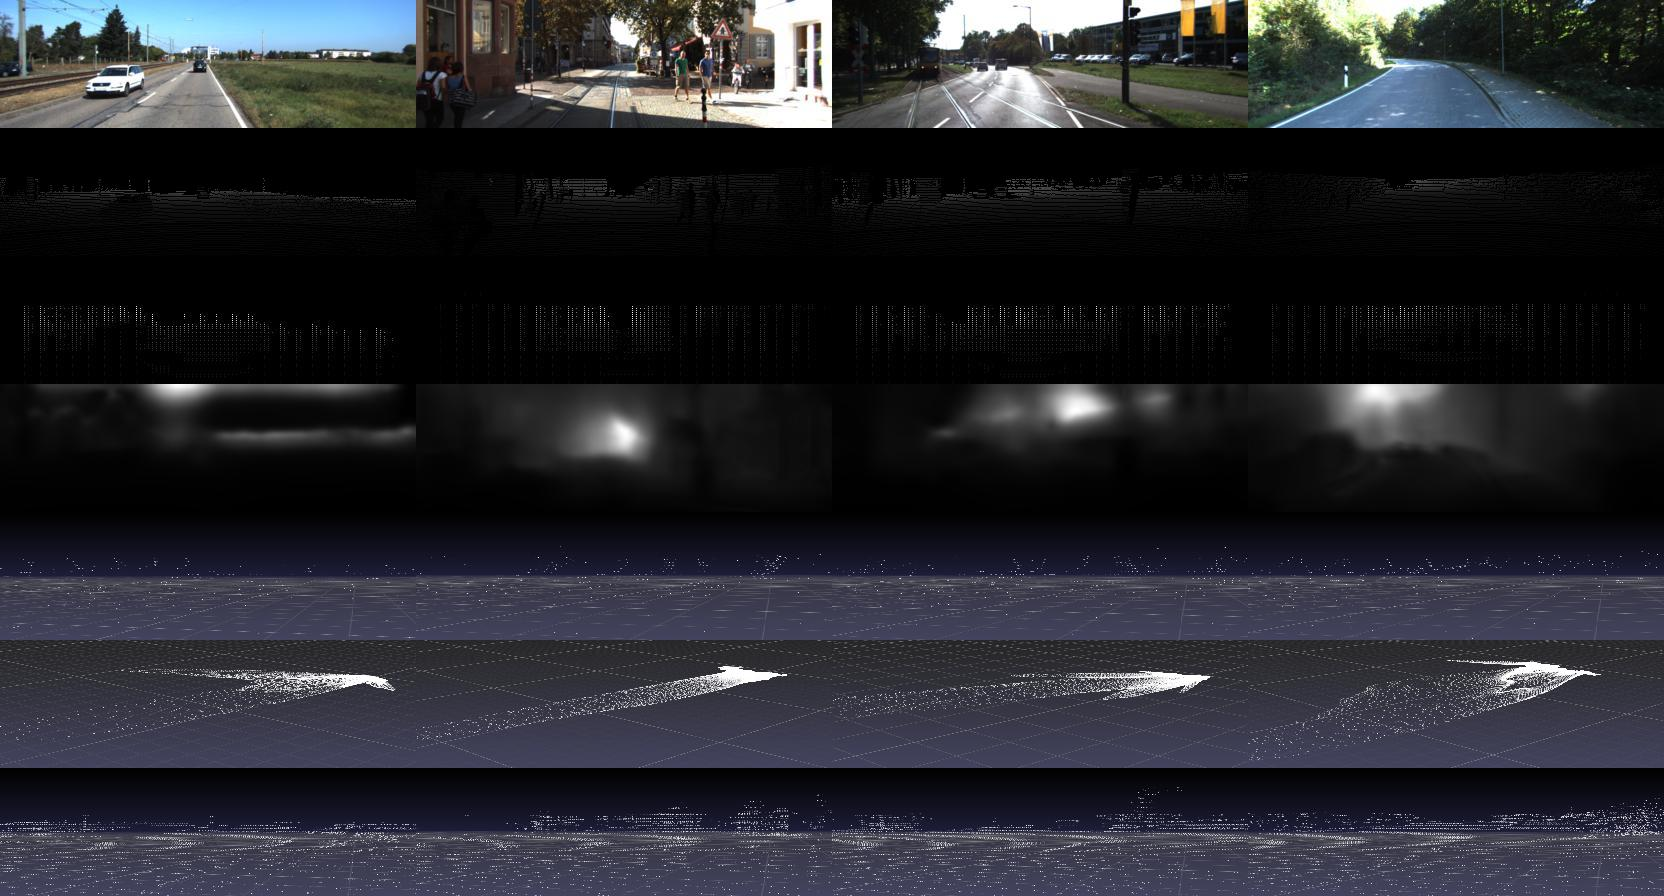
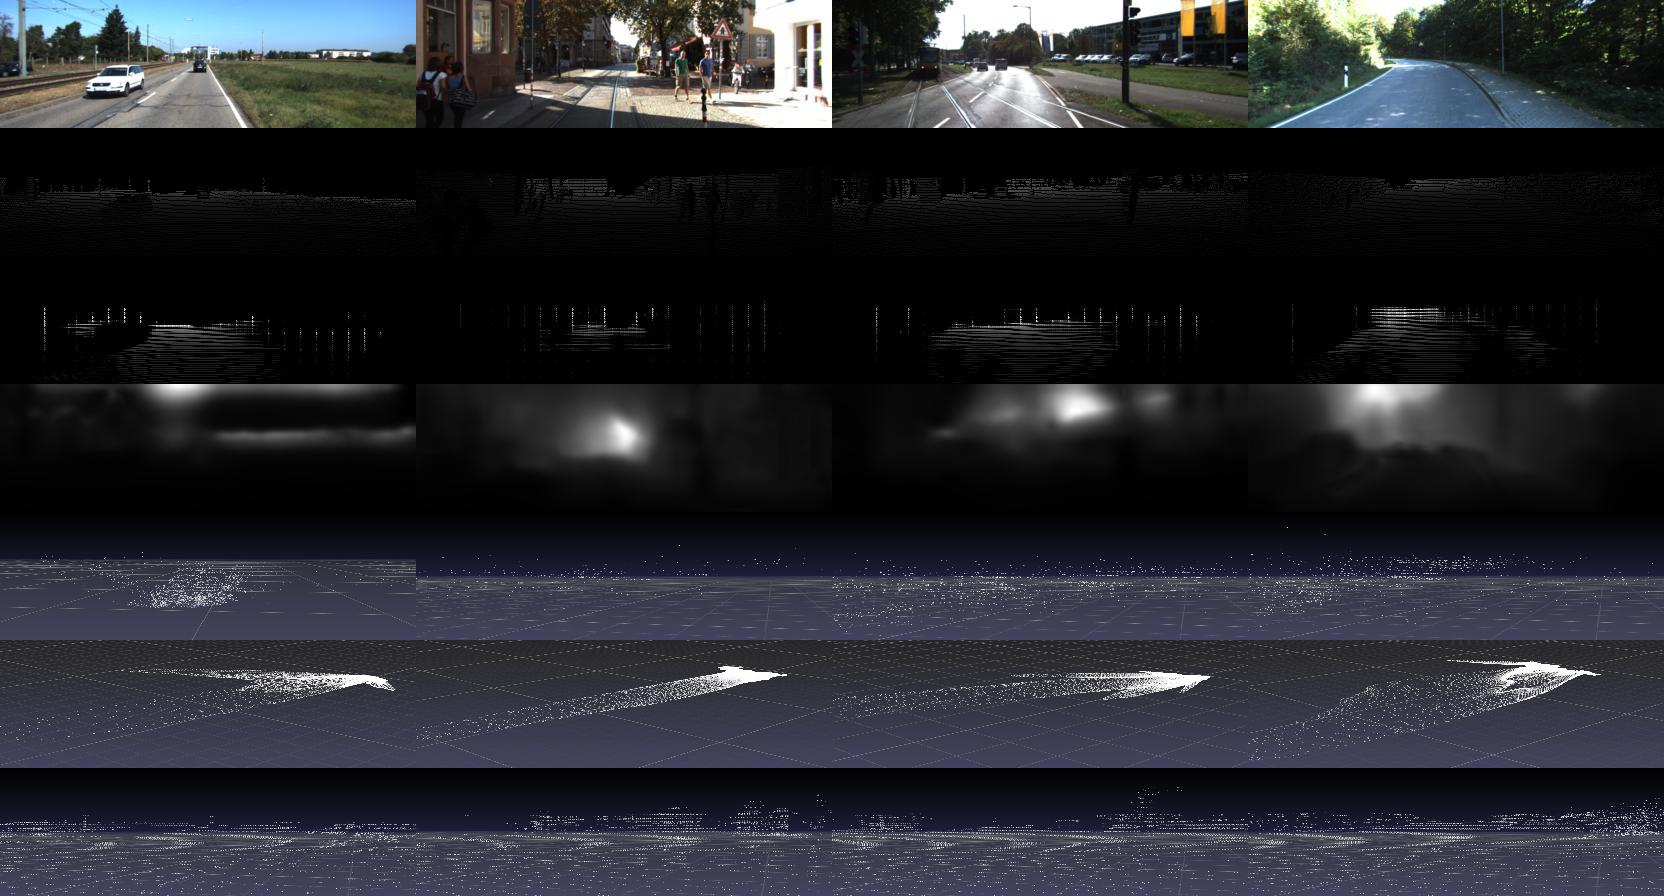
save

diff --git a/train.py b/train.py
@@ -87,7 +87,7 @@ def main():
     model.init_weights()
 
     cudnn.benchmark = True
-    model = torch.nn.DataParallel(model, device_ids=[0, 1, 2])
+    model = torch.nn.DataParallel(model, device_ids=[0, 1])
 
     print('Setting Adam Slover')
     optimizer = torch.optim.Adam(model.parameters(), lr = args.lr,
@@ -169,13 +169,13 @@ def train(args, train_loader, model, optimizer, epoch_size, logger, train_writer
 
 
         silog = models.getSIlog(depth, output)
-        var = torch.var(output_points)
+        var = 1 / torch.var(output_points) * 0.2
         smooth = torch.nn.functional.smooth_l1_loss(output, depth)
 
 
         print('{}_Train Loss: cd loss {}, silog {}, var {}, smooth {}'.format(i, cd_loss, silog, var, smooth))
 
-        loss = cd_loss + silog + var + smooth
+        loss = cd_loss + silog + var #+ smooth
 
         optimizer.zero_grad()
         loss.backward()
@@ -213,14 +213,12 @@ def validate(args, val_loader, model, optimizer, epoch_size, logger):
         cd_loss = torch.mean(cd_loss)
 
         silog = models.getSIlog(depth, output)
-        var = torch.var(output_points)
+        var = 1 / torch.var(output_points) * 0.2
         smooth = torch.nn.functional.smooth_l1_loss(output, depth)
 
         print('{}_Val Loss: cd loss {}, silog {}, var {}, smooth {}'.format(i, cd_loss, silog, var, smooth))
 
-        loss = cd_loss + silog + var + smooth
-
-        loss += silog
+        loss = cd_loss + silog + var #+ smooth
 
         losses.append(loss.detach().cpu().numpy())
     

diff --git a/image_generate.py b/image_generate.py
@@ -11,6 +11,10 @@ import scipy.misc
 def get_capture_from_pc(arr, specific = True):
 
     theta, phi, r = (0.04295149, 3.42998147, 12.3728714)
+
+    if specific == True:
+        arr = arr[arr[:, 0] > 1.0]
+
     v = pptk.viewer(arr)
     v.set(show_axis = False)
     v.set(show_info = False)
@@ -23,6 +27,8 @@ def get_capture_from_pc(arr, specific = True):
 
     v.capture('screenshot.png')
     time.sleep(10)
+
+    # v.close()
 
     res = None
     with Image.open('screenshot.png') as img:
@@ -123,5 +129,8 @@ def main(inputs, outputs):
 
 
 
+
+def presentation():
+    pass
 
 

diff --git a/eval.py b/eval.py
@@ -33,7 +33,7 @@ def main():
         num_workers = 8, pin_memory = True)
 
     our_net = models.UNetR(3, 1).to(device)
-    weights = torch.load('runs/best')
+    weights = torch.load('runs/best_b_sp_3_silog_var_smooth')
     our_net.load_state_dict(weights['state_dict'])
 
     our_loss = eval(our_net, val_loader)
